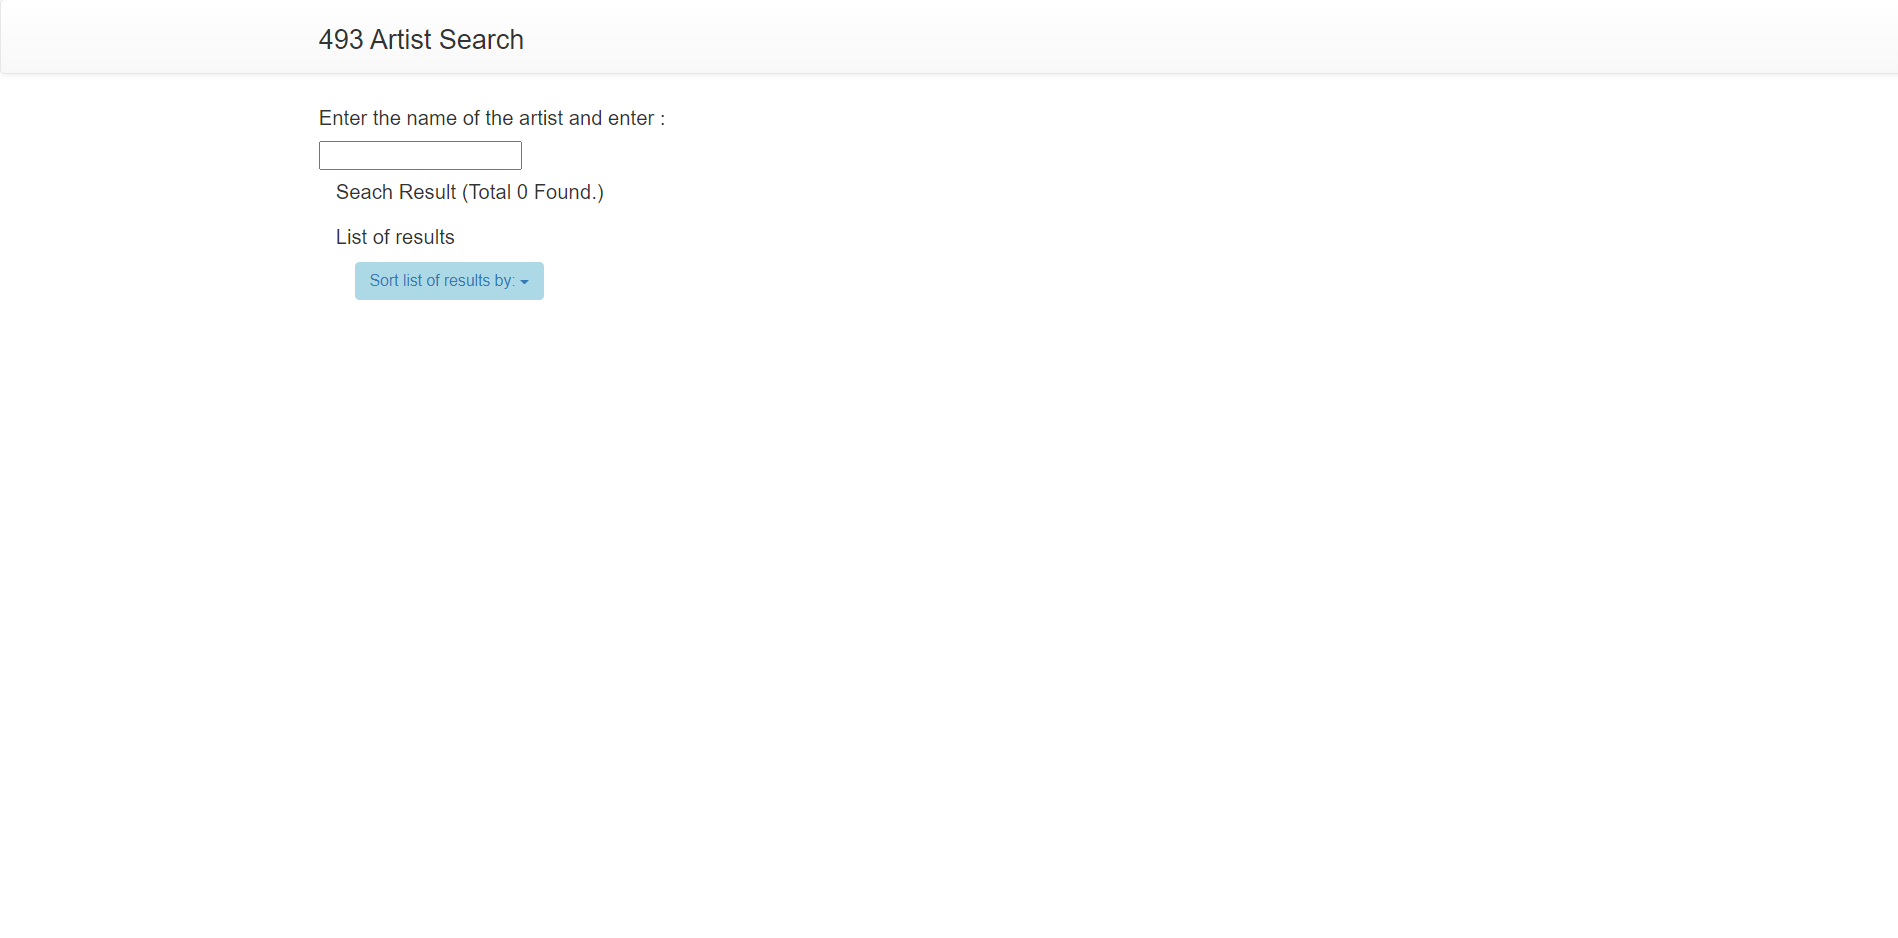
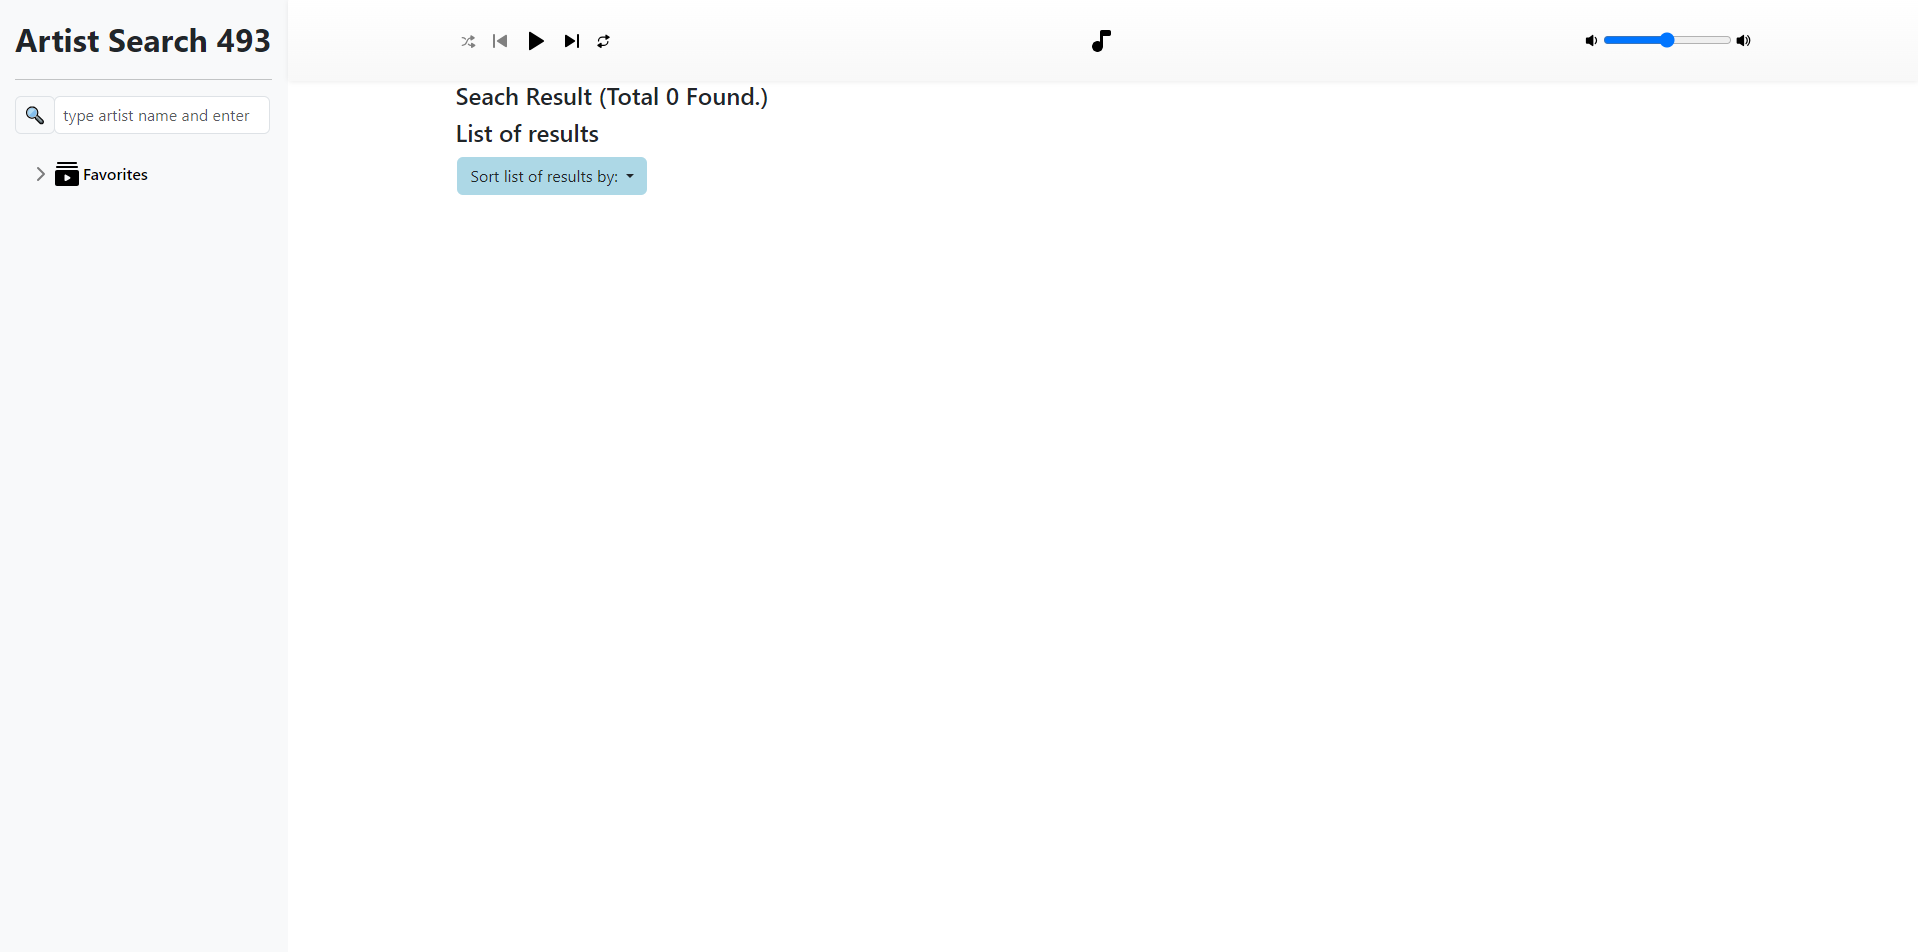
Add new screenshots

diff --git a/docs/a5-artist-search/README.md b/docs/a5-artist-search/README.md
@@ -138,33 +138,65 @@ Note: This is not the only way to achieve this behavior, but it is in my opinion
 
 ## Screenshots
 
-### Landing page with search bar
+### Landing Page
 
 <img src="images/search-bar.png" width="100%" />
 
-### After searching for an artist
+### Search for an Artist
 
 <img src="images/search-result.png" width="100%" />
 
-### "Track Info." tab for the left two results
+### "Track Info" Tab (for the left two results)
 
 <img src="images/track-info.png" width="100%" />
 
-### Sort menu
+### Sort
+
+#### Menu
 
 <img src="images/sort-menu.png" width="100%" />
 
-### After sorting by "Collection Name"
+#### Sort by "Collection Name"
 
 <img src="images/sorted-collection.png" width="100%" />
 
-### After sorting by "Price"
+#### Sort by "Price"
 
 <img src="images/sorted-price.png" width="100%" />
 
-### After (resetting sort to original and) selecting the "Dance" and "Pop" genre selections
+### Select the "Dance" and "Pop" Genres
+
+Remark: Sort is reset to original in this screenshot.
 
 <img src="images/select-genre.png" width="100%" />
+
+### Search History
+
+#### Dropdown
+
+<img src="images/search-history.png" width="100%" />
+
+#### After searching for "John Williams"
+
+<img src="images/search-history-add.png" width="100%" />
+
+#### After deleting "ayokay"
+
+<img src="images/search-history-remove.png" width="100%" />
+
+### Favorites
+
+#### Left Panel
+
+<img src="images/favorites.png" width="100%" />
+
+#### After adding "Hedwig's Theme"
+
+<img src="images/favorites-add.png" width="100%" />
+
+### Play
+
+<img src="images/play.png" width="100%" />
 
 ## Requirements
 
